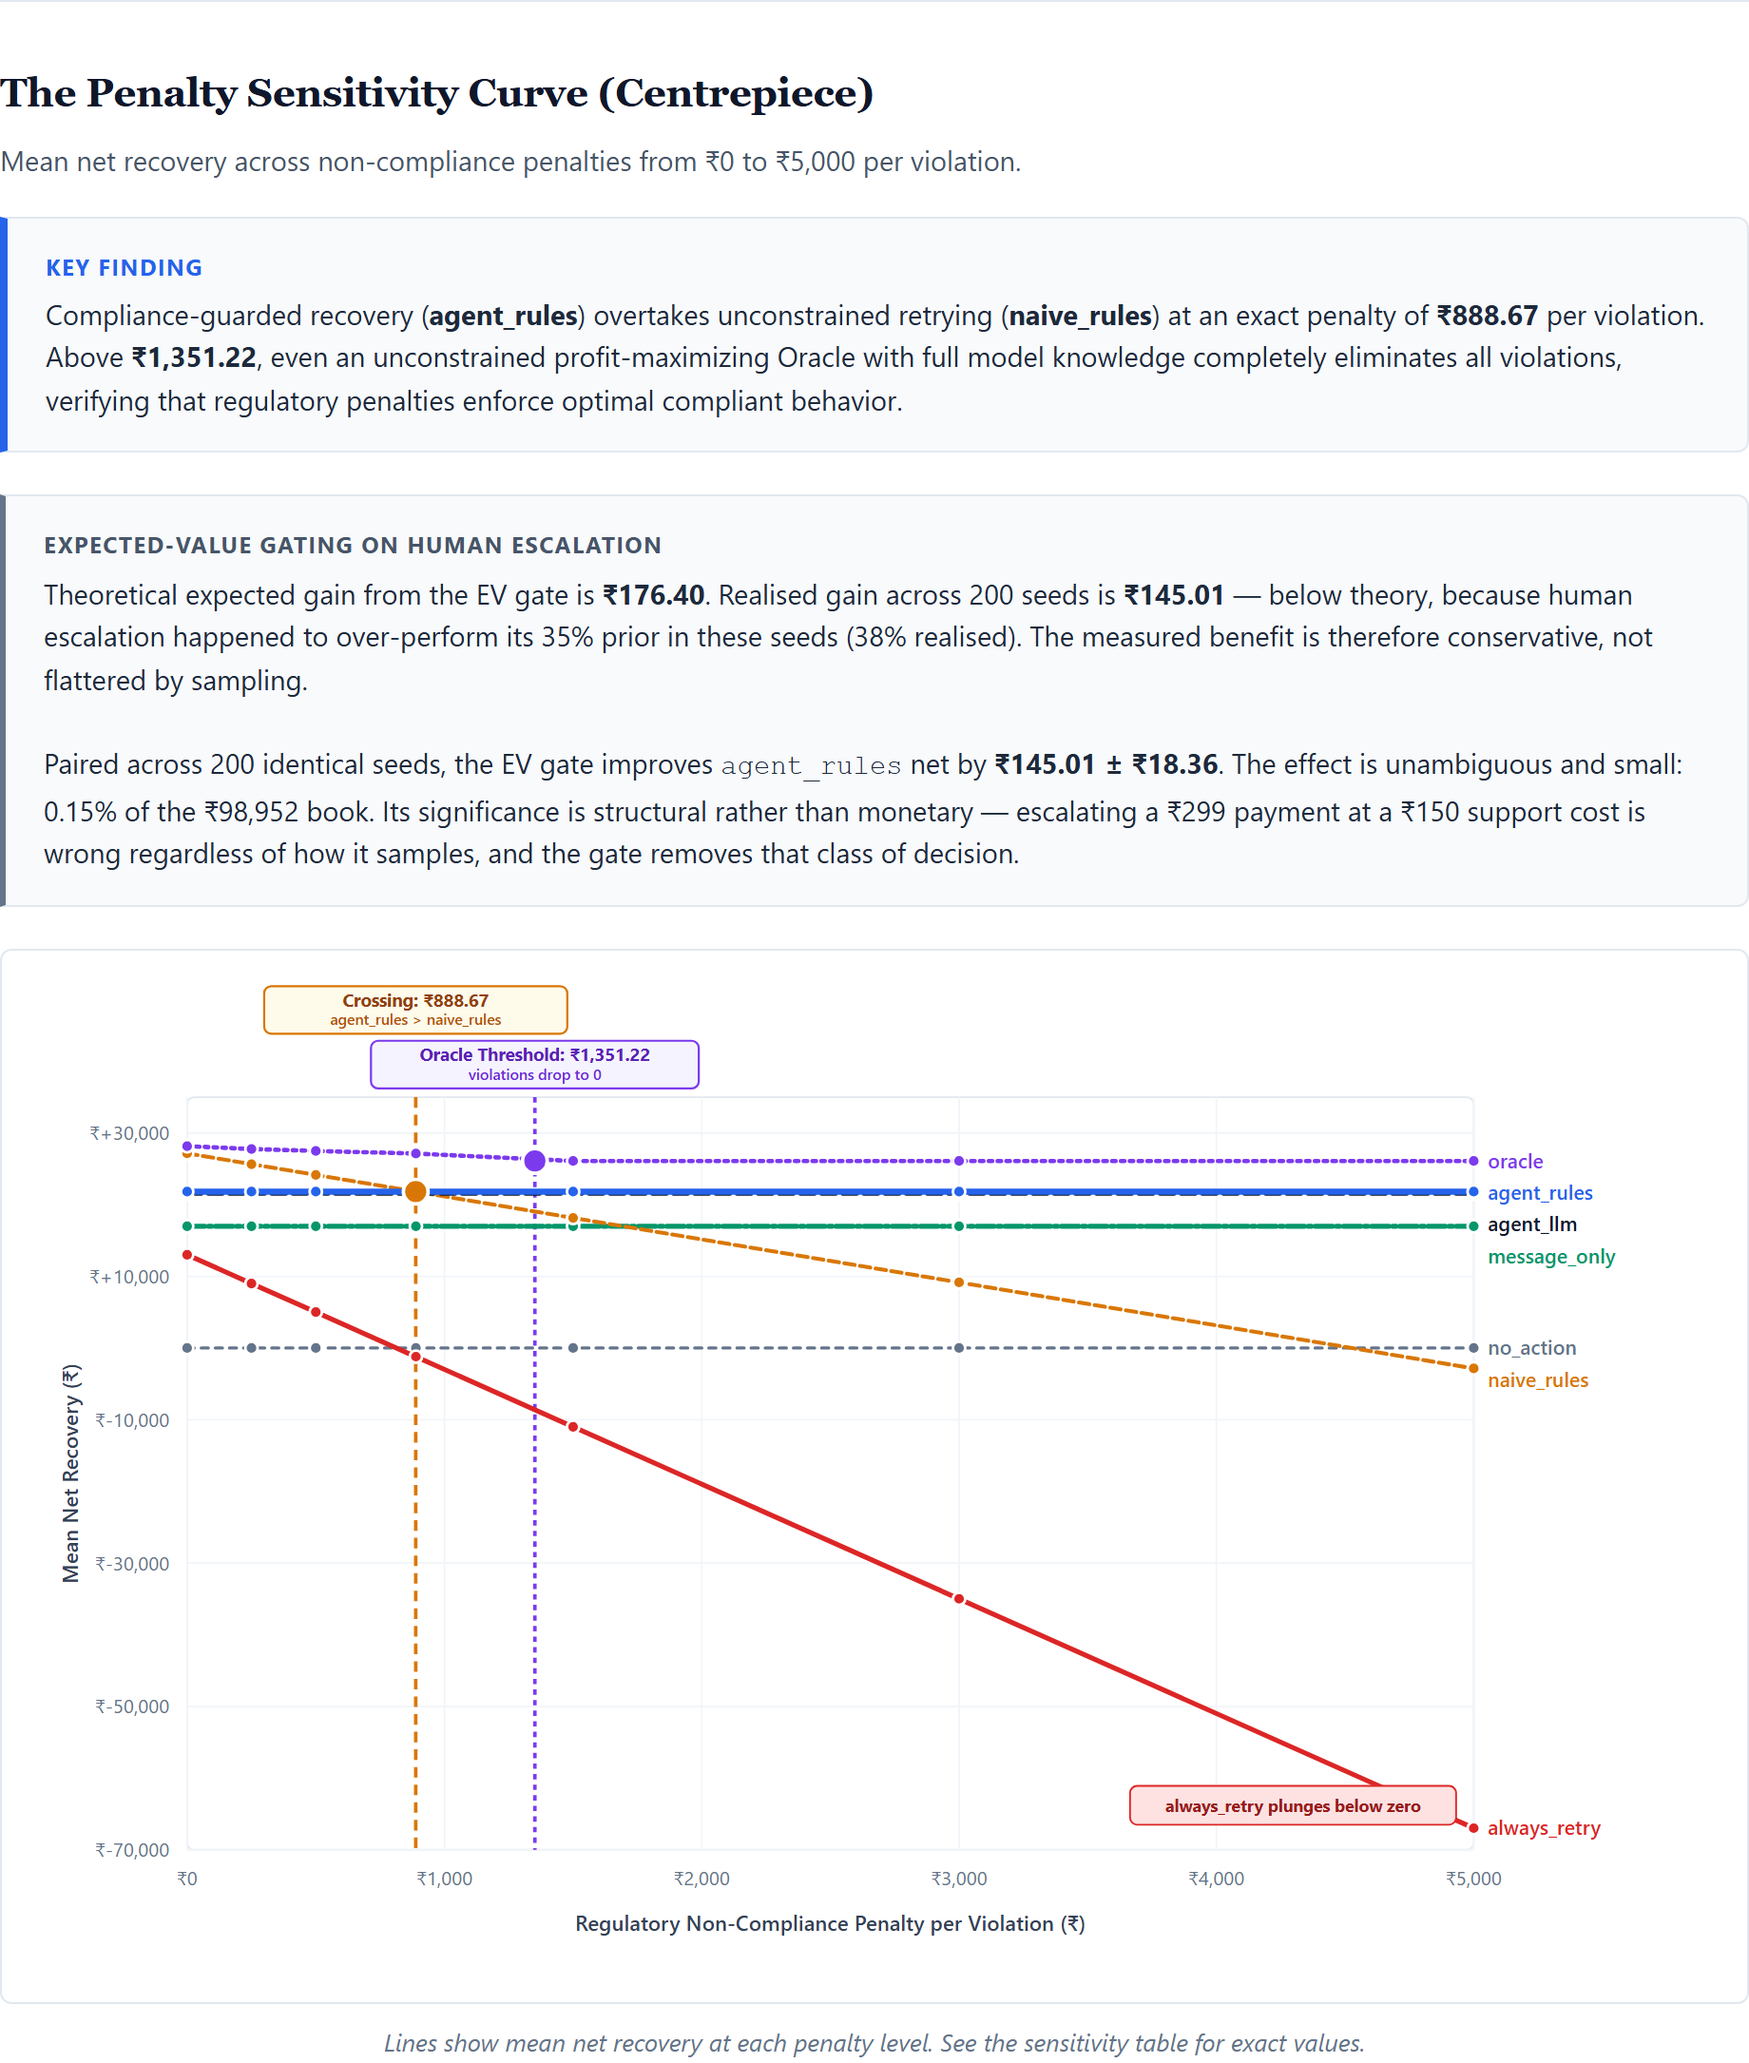
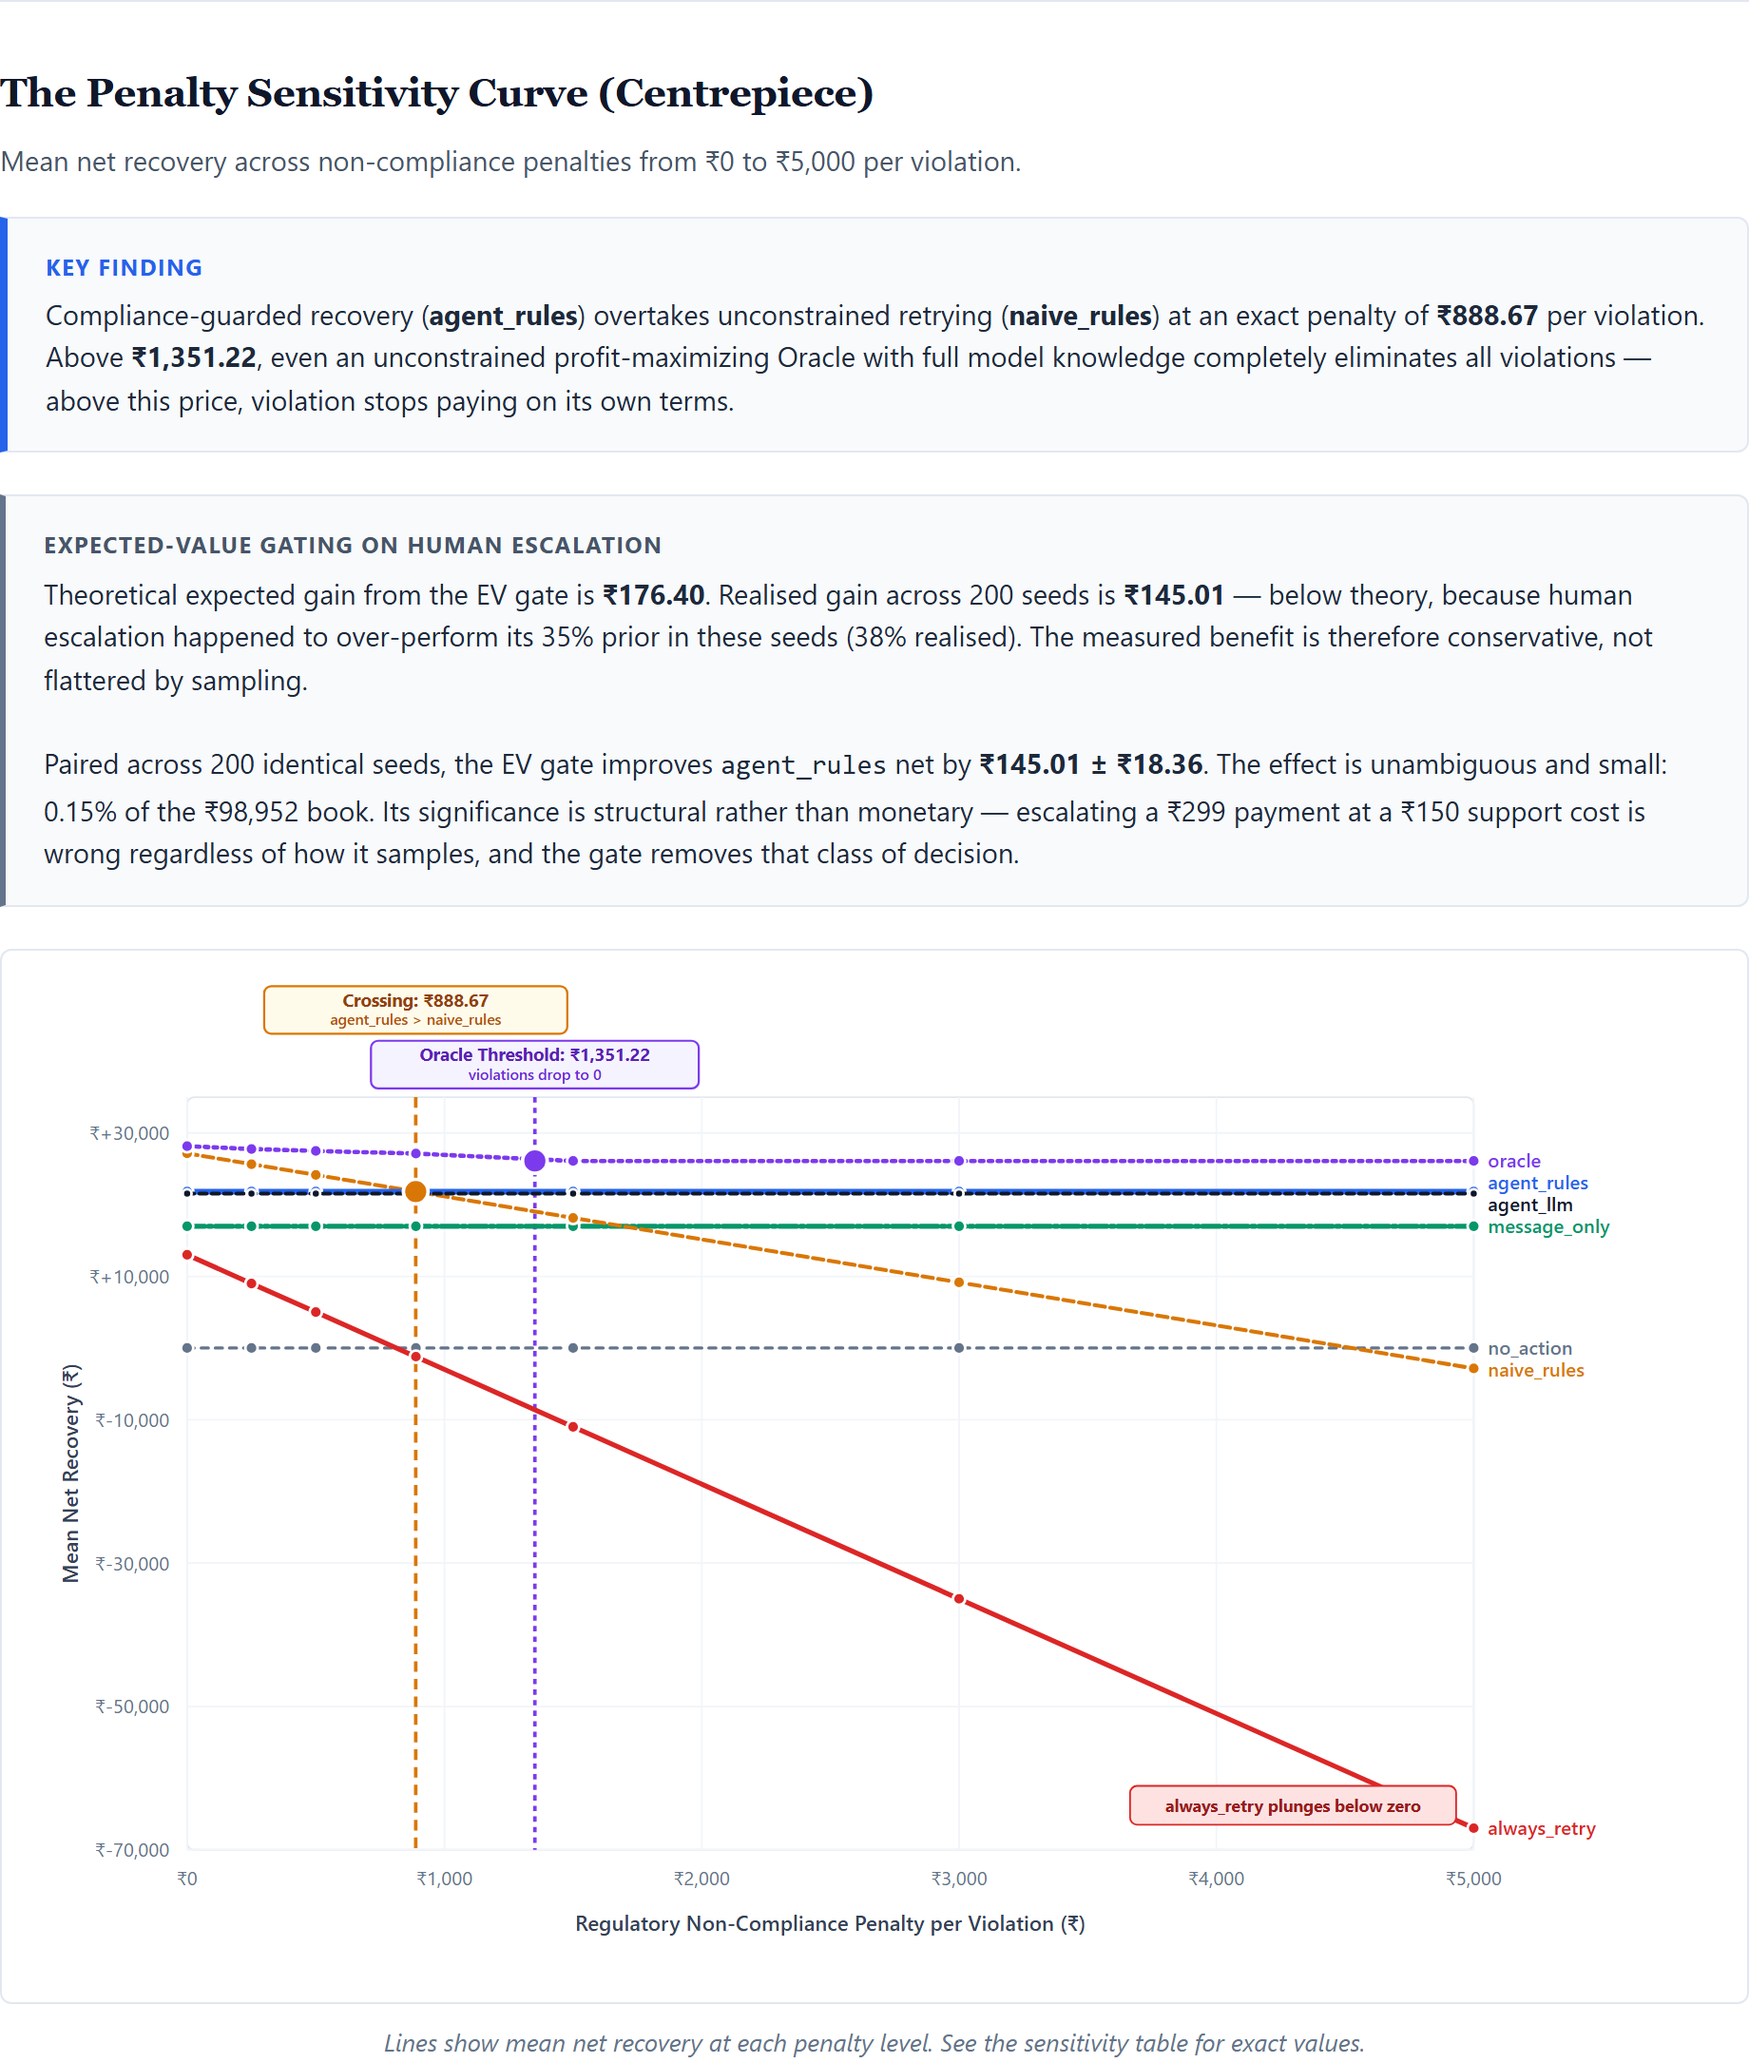
Fix sensitivity curve end-labels anchoring, agent_llm dash, and KEY FINDING text

diff --git a/benchmark_report.html b/benchmark_report.html
@@ -364,7 +364,7 @@
                 <span class="chip">Revenue at Risk: <strong>₹98,952.00</strong></span>
                 <span class="chip">Base Penalty: <strong>₹500 / violation</strong></span>
                 <span class="chip">Policy Version: <strong>d2975ba696cd</strong></span>
-                <span class="chip">Generated: <strong>2026-09-05 11:20:40</strong></span>
+                <span class="chip">Generated: <strong>2026-09-05 13:43:25</strong></span>
             </div>
             <div class="composition-box">
                 agent_llm composition: 31 live LLM / 0 rule fallback (cache miss) / 7 deterministic guard
@@ -389,7 +389,7 @@
             <div class="key-finding-box">
                 <div class="key-finding-tag">Key Finding</div>
                 <div class="key-finding-body">
-                    Compliance-guarded recovery (<strong>agent_rules</strong>) overtakes unconstrained retrying (<strong>naive_rules</strong>) at an exact penalty of <strong>₹888.67</strong> per violation. Above <strong>₹1,351.22</strong>, even an unconstrained profit-maximizing Oracle with full model knowledge completely eliminates all violations, verifying that regulatory penalties enforce optimal compliant behavior.
+                    Compliance-guarded recovery (<strong>agent_rules</strong>) overtakes unconstrained retrying (<strong>naive_rules</strong>) at an exact penalty of <strong>₹888.67</strong> per violation. Above <strong>₹1,351.22</strong>, even an unconstrained profit-maximizing Oracle with full model knowledge completely eliminates all violations — above this price, violation stops paying on its own terms.
                 </div>
             </div>
 
@@ -464,15 +464,7 @@
 <circle cx="309.0" cy="136.5" r="3.5" fill="#d97706" stroke="#ffffff" stroke-width="1.5" />
 <circle cx="528.0" cy="173.1" r="3.5" fill="#d97706" stroke="#ffffff" stroke-width="1.5" />
 <circle cx="820.0" cy="221.9" r="3.5" fill="#d97706" stroke="#ffffff" stroke-width="1.5" />
-<polyline points="90.0,122.7 126.5,122.7 163.0,122.7 219.8,122.7 309.0,122.7 528.0,122.7 820.0,122.7" fill="none" stroke="#0f172a" stroke-width="2.5" stroke-dasharray="8,4" stroke-linecap="round" stroke-linejoin="round" />
-<circle cx="90.0" cy="122.7" r="3.5" fill="#0f172a" stroke="#ffffff" stroke-width="1.5" />
-<circle cx="126.5" cy="122.7" r="3.5" fill="#0f172a" stroke="#ffffff" stroke-width="1.5" />
-<circle cx="163.0" cy="122.7" r="3.5" fill="#0f172a" stroke="#ffffff" stroke-width="1.5" />
-<circle cx="219.8" cy="122.7" r="3.5" fill="#0f172a" stroke="#ffffff" stroke-width="1.5" />
-<circle cx="309.0" cy="122.7" r="3.5" fill="#0f172a" stroke="#ffffff" stroke-width="1.5" />
-<circle cx="528.0" cy="122.7" r="3.5" fill="#0f172a" stroke="#ffffff" stroke-width="1.5" />
-<circle cx="820.0" cy="122.7" r="3.5" fill="#0f172a" stroke="#ffffff" stroke-width="1.5" />
-<polyline points="90.0,121.6 126.5,121.6 163.0,121.6 219.8,121.6 309.0,121.6 528.0,121.6 820.0,121.6" fill="none" stroke="#2563eb" stroke-width="3.5"  stroke-linecap="round" stroke-linejoin="round" />
+<polyline points="90.0,121.6 126.5,121.6 163.0,121.6 219.8,121.6 309.0,121.6 528.0,121.6 820.0,121.6" fill="none" stroke="#2563eb" stroke-width="3.2"  stroke-linecap="round" stroke-linejoin="round" />
 <circle cx="90.0" cy="121.6" r="3.5" fill="#2563eb" stroke="#ffffff" stroke-width="1.5" />
 <circle cx="126.5" cy="121.6" r="3.5" fill="#2563eb" stroke="#ffffff" stroke-width="1.5" />
 <circle cx="163.0" cy="121.6" r="3.5" fill="#2563eb" stroke="#ffffff" stroke-width="1.5" />
@@ -480,6 +472,14 @@
 <circle cx="309.0" cy="121.6" r="3.5" fill="#2563eb" stroke="#ffffff" stroke-width="1.5" />
 <circle cx="528.0" cy="121.6" r="3.5" fill="#2563eb" stroke="#ffffff" stroke-width="1.5" />
 <circle cx="820.0" cy="121.6" r="3.5" fill="#2563eb" stroke="#ffffff" stroke-width="1.5" />
+<polyline points="90.0,122.7 126.5,122.7 163.0,122.7 219.8,122.7 309.0,122.7 528.0,122.7 820.0,122.7" fill="none" stroke="#0f172a" stroke-width="2.2" stroke-dasharray="4,3" stroke-linecap="round" stroke-linejoin="round" />
+<circle cx="90.0" cy="122.7" r="2.5" fill="#0f172a" stroke="#ffffff" stroke-width="1.5" />
+<circle cx="126.5" cy="122.7" r="2.5" fill="#0f172a" stroke="#ffffff" stroke-width="1.5" />
+<circle cx="163.0" cy="122.7" r="2.5" fill="#0f172a" stroke="#ffffff" stroke-width="1.5" />
+<circle cx="219.8" cy="122.7" r="2.5" fill="#0f172a" stroke="#ffffff" stroke-width="1.5" />
+<circle cx="309.0" cy="122.7" r="2.5" fill="#0f172a" stroke="#ffffff" stroke-width="1.5" />
+<circle cx="528.0" cy="122.7" r="2.5" fill="#0f172a" stroke="#ffffff" stroke-width="1.5" />
+<circle cx="820.0" cy="122.7" r="2.5" fill="#0f172a" stroke="#ffffff" stroke-width="1.5" />
 <polyline points="90.0,95.8 126.5,97.4 163.0,98.5 219.8,100.0 309.0,104.2 528.0,104.2 820.0,104.2" fill="none" stroke="#7c3aed" stroke-width="2.5" stroke-dasharray="2,3" stroke-linecap="round" stroke-linejoin="round" />
 <circle cx="90.0" cy="95.8" r="3.5" fill="#7c3aed" stroke="#ffffff" stroke-width="1.5" />
 <circle cx="126.5" cy="97.4" r="3.5" fill="#7c3aed" stroke="#ffffff" stroke-width="1.5" />
@@ -488,13 +488,13 @@
 <circle cx="309.0" cy="104.2" r="3.5" fill="#7c3aed" stroke="#ffffff" stroke-width="1.5" />
 <circle cx="528.0" cy="104.2" r="3.5" fill="#7c3aed" stroke="#ffffff" stroke-width="1.5" />
 <circle cx="820.0" cy="104.2" r="3.5" fill="#7c3aed" stroke="#ffffff" stroke-width="1.5" />
-<text x="828.0" y="108.2" font-size="11.5" font-weight="600" fill="#7c3aed">oracle</text>
-<text x="828.0" y="126.2" font-size="11.5" font-weight="600" fill="#2563eb">agent_rules</text>
-<text x="828.0" y="144.2" font-size="11.5" font-weight="600" fill="#0f172a">agent_llm</text>
-<text x="828.0" y="162.2" font-size="11.5" font-weight="600" fill="#059669">message_only</text>
-<text x="828.0" y="214.3" font-size="11.5" font-weight="600" fill="#64748b">no_action</text>
-<text x="828.0" y="232.3" font-size="11.5" font-weight="600" fill="#d97706">naive_rules</text>
-<text x="828.0" y="486.7" font-size="11.5" font-weight="600" fill="#dc2626">always_retry</text>
+<text x="828.0" y="107.7" font-size="11" font-weight="600" fill="#7c3aed">oracle</text>
+<text x="828.0" y="120.2" font-size="11" font-weight="600" fill="#2563eb">agent_rules</text>
+<text x="828.0" y="132.7" font-size="11" font-weight="600" fill="#0f172a">agent_llm</text>
+<text x="828.0" y="145.2" font-size="11" font-weight="600" fill="#059669">message_only</text>
+<text x="828.0" y="213.9" font-size="11" font-weight="600" fill="#64748b">no_action</text>
+<text x="828.0" y="226.4" font-size="11" font-weight="600" fill="#d97706">naive_rules</text>
+<text x="828.0" y="486.7" font-size="11" font-weight="600" fill="#dc2626">always_retry</text>
 <circle cx="219.7" cy="121.6" r="7" fill="#d97706" stroke="#ffffff" stroke-width="2" />
 <g><rect x="133.7" y="5.0" width="172" height="27" rx="4" fill="#fffbeb" stroke="#d97706" stroke-width="1.2" /><text x="219.7" y="16.5" text-anchor="middle" font-size="10" font-weight="bold" fill="#92400e" style="font-variant-numeric: tabular-nums;">Crossing: ₹888.67</text><text x="219.7" y="27.0" text-anchor="middle" font-size="8.5" font-weight="600" fill="#b45309">agent_rules > naive_rules</text></g>
 <circle cx="287.3" cy="104.2" r="7" fill="#7c3aed" stroke="#ffffff" stroke-width="2" />

diff --git a/report_generator.py b/report_generator.py
@@ -136,8 +136,8 @@ def build_sensitivity_curve_svg(
     )
 
     # Draw strategy polylines
-    # Order so high priority lines are on top
-    strategy_order = ["no_action", "always_retry", "message_only", "naive_rules", "agent_llm", "agent_rules", "oracle"]
+    # Order so agent_rules is drawn first, agent_llm drawn distinctly on top, and oracle on top
+    strategy_order = ["no_action", "always_retry", "message_only", "naive_rules", "agent_rules", "agent_llm", "oracle"]
     end_labels = []
 
     for strat in strategy_order:
@@ -155,11 +155,11 @@ def build_sensitivity_curve_svg(
             dash = 'stroke-dasharray="2,3"'
             width_val = "2.5"
         elif strat == "agent_rules":
-            width_val = "3.5"
+            width_val = "3.2"
             dash = ""
         elif strat == "agent_llm":
-            width_val = "2.5"
-            dash = 'stroke-dasharray="8,4"'
+            width_val = "2.2"
+            dash = 'stroke-dasharray="4,3"'
         elif strat == "naive_rules":
             width_val = "2.2"
             dash = 'stroke-dasharray="6,3"'
@@ -178,24 +178,30 @@ def build_sensitivity_curve_svg(
             f'{dash} stroke-linecap="round" stroke-linejoin="round" />'
         )
 
-        # Plot point dots
+        # Plot point dots (agent_llm radius slightly smaller so both paired markers show cleanly)
+        dot_r = "2.5" if strat == "agent_llm" else "3.5"
         for x, y, _ in pts:
-            svg_parts.append(f'<circle cx="{x:.1f}" cy="{y:.1f}" r="3.5" fill="{color}" stroke="#ffffff" stroke-width="1.5" />')
+            svg_parts.append(f'<circle cx="{x:.1f}" cy="{y:.1f}" r="{dot_r}" fill="{color}" stroke="#ffffff" stroke-width="1.5" />')
 
         last_x, last_y, last_val = pts[-1]
         end_labels.append({"strat": strat, "x": last_x, "y": last_y, "val": last_val, "color": color})
 
-    # Deconflict end label y positions so they never overlap
+    # Anchored deconfliction: keep each label anchored to its own series' final y-value
+    # Symmetrically relax close neighbours so agent_llm sits directly below agent_rules without shifting message_only
     end_labels.sort(key=lambda item: item["y"])
-    min_gap = 18
-    for k in range(1, len(end_labels)):
-        if end_labels[k]["y"] - end_labels[k-1]["y"] < min_gap:
-            end_labels[k]["y"] = end_labels[k-1]["y"] + min_gap
+    min_gap = 12.5
+    for _ in range(50):
+        for k in range(len(end_labels) - 1):
+            gap = end_labels[k+1]["y"] - end_labels[k]["y"]
+            if gap < min_gap:
+                overlap = (min_gap - gap) / 2.0
+                end_labels[k]["y"] -= overlap
+                end_labels[k+1]["y"] += overlap
 
     # Curve end labels: Strategy name ONLY (no numbers / penalty levels)
     for item in end_labels:
         svg_parts.append(
-            f'<text x="{item["x"] + 8:.1f}" y="{item["y"] + 4:.1f}" font-size="11.5" font-weight="600" fill="{item["color"]}">'
+            f'<text x="{item["x"] + 8:.1f}" y="{item["y"] + 4:.1f}" font-size="11" font-weight="600" fill="{item["color"]}">'
             f'{item["strat"]}</text>'
         )
 
@@ -872,7 +878,7 @@ def generate_benchmark_html(
             <div class="key-finding-box">
                 <div class="key-finding-tag">Key Finding</div>
                 <div class="key-finding-body">
-                    Compliance-guarded recovery (<strong>agent_rules</strong>) overtakes unconstrained retrying (<strong>naive_rules</strong>) at an exact penalty of <strong>₹{breakeven_penalty_inr:,.2f}</strong> per violation. Above <strong>₹{oracle_threshold_inr:,.2f}</strong>, even an unconstrained profit-maximizing Oracle with full model knowledge completely eliminates all violations, verifying that regulatory penalties enforce optimal compliant behavior.
+                    Compliance-guarded recovery (<strong>agent_rules</strong>) overtakes unconstrained retrying (<strong>naive_rules</strong>) at an exact penalty of <strong>₹{breakeven_penalty_inr:,.2f}</strong> per violation. Above <strong>₹{oracle_threshold_inr:,.2f}</strong>, even an unconstrained profit-maximizing Oracle with full model knowledge completely eliminates all violations — above this price, violation stops paying on its own terms.
                 </div>
             </div>
 

diff --git a/benchmark_results.md b/benchmark_results.md
@@ -1,6 +1,6 @@
 # Benchmark Results – Recovery Agent Multi-Strategy Evaluation
 
-**Timestamp:** 2026-09-05 11:20:40 | **Batch Size:** 40 records | **Seeds:** 200 | **Total at Risk:** ₹98,952.00 | **Penalty:** ₹500
+**Timestamp:** 2026-09-05 13:43:25 | **Batch Size:** 40 records | **Seeds:** 200 | **Total at Risk:** ₹98,952.00 | **Penalty:** ₹500
 
 `agent_llm composition: 31 live LLM / 0 rule fallback (cache miss) / 7 deterministic guard`
 
